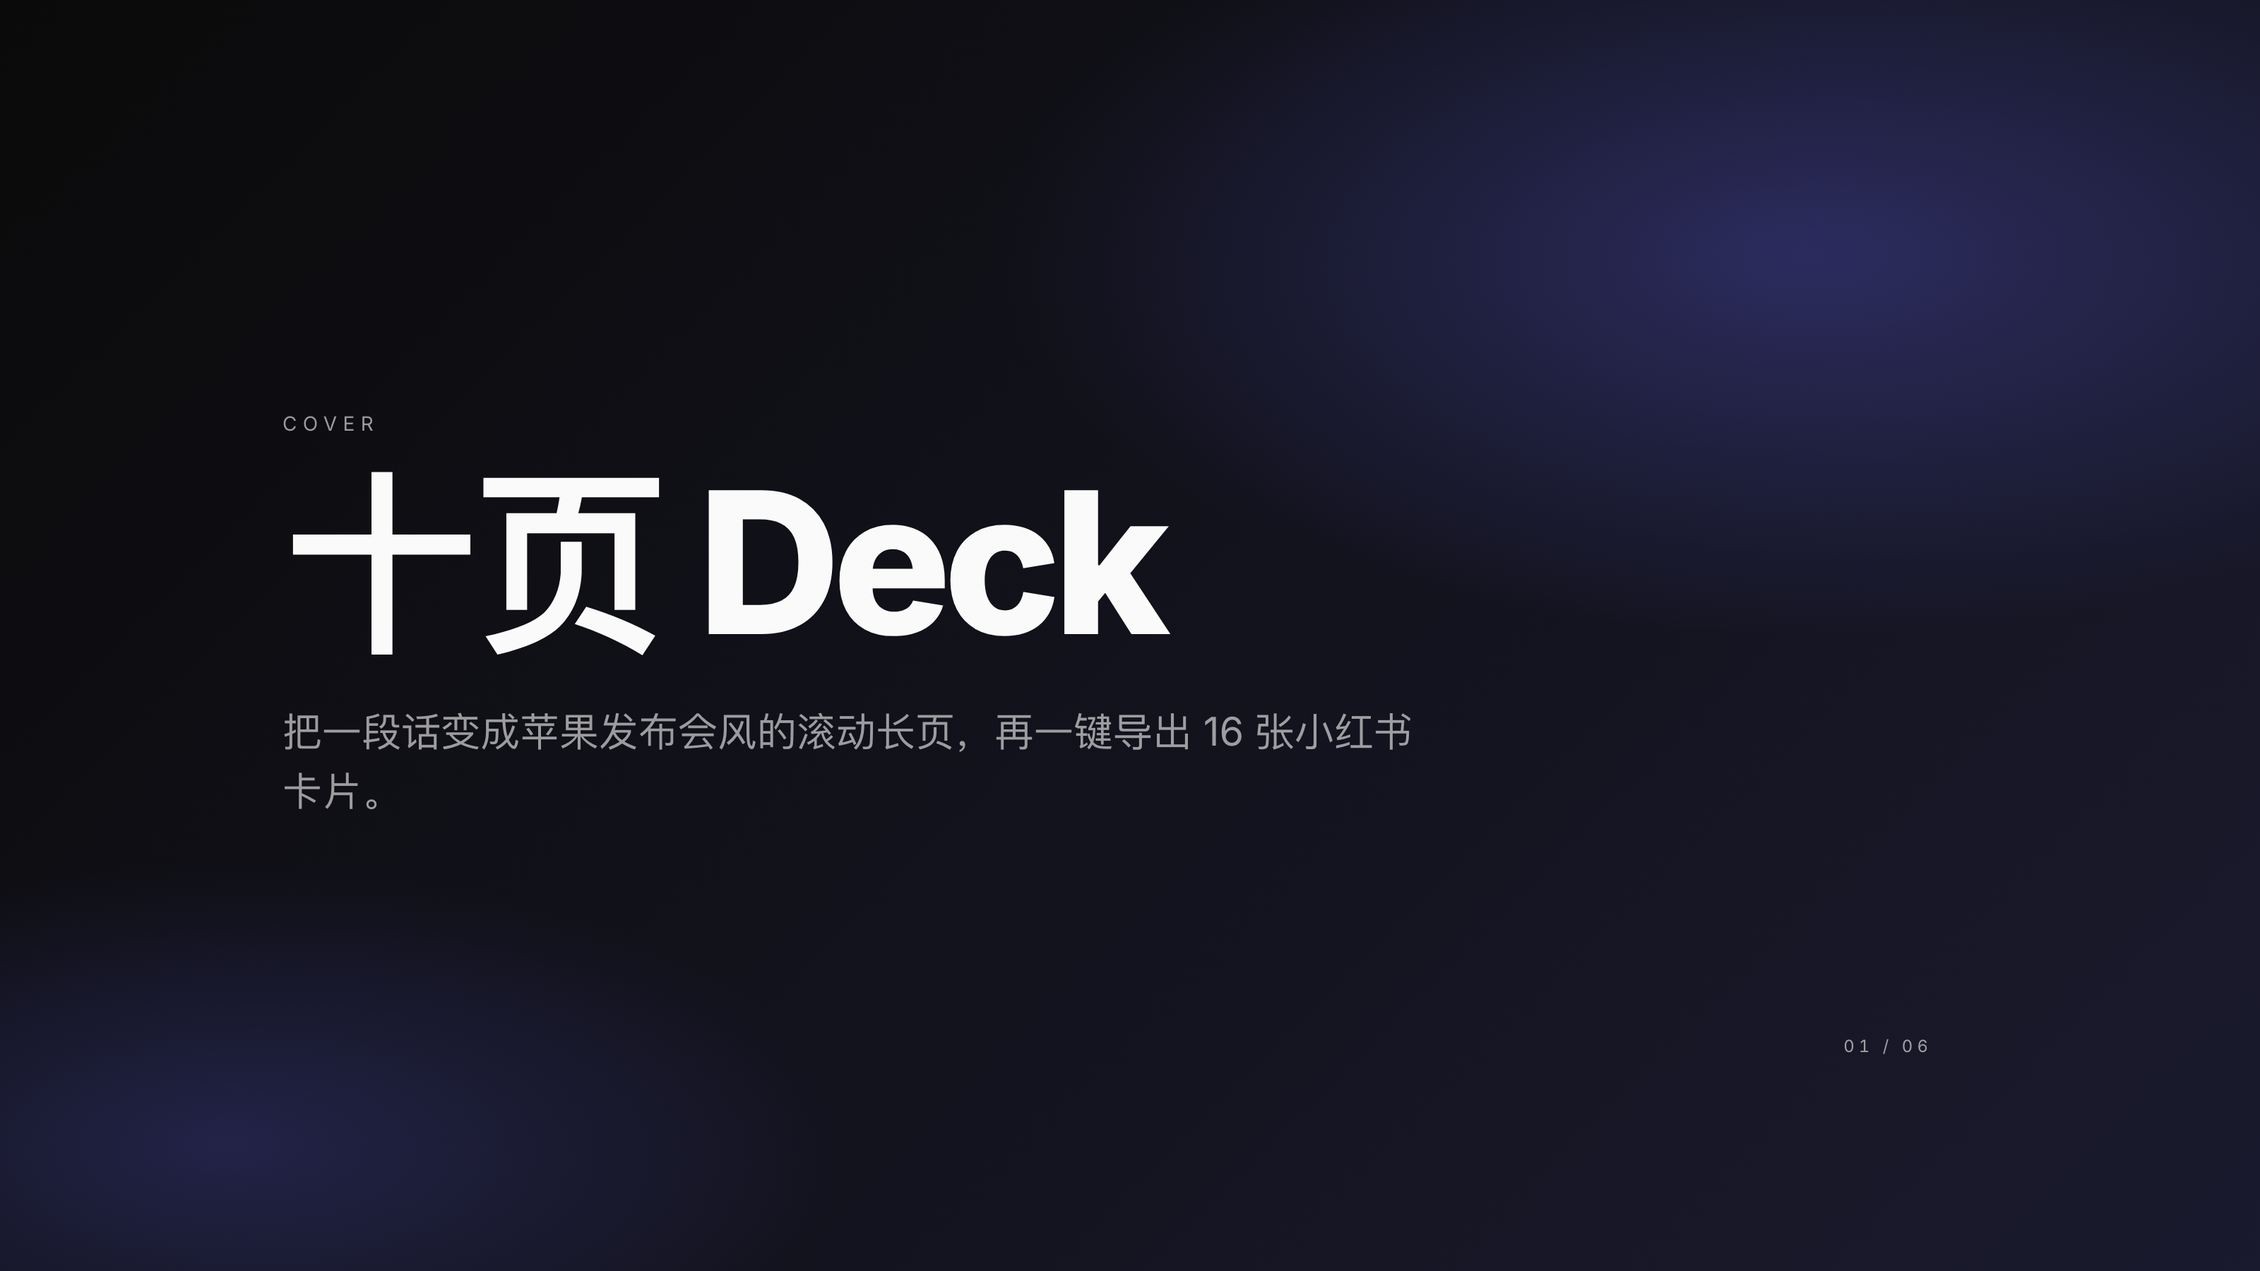
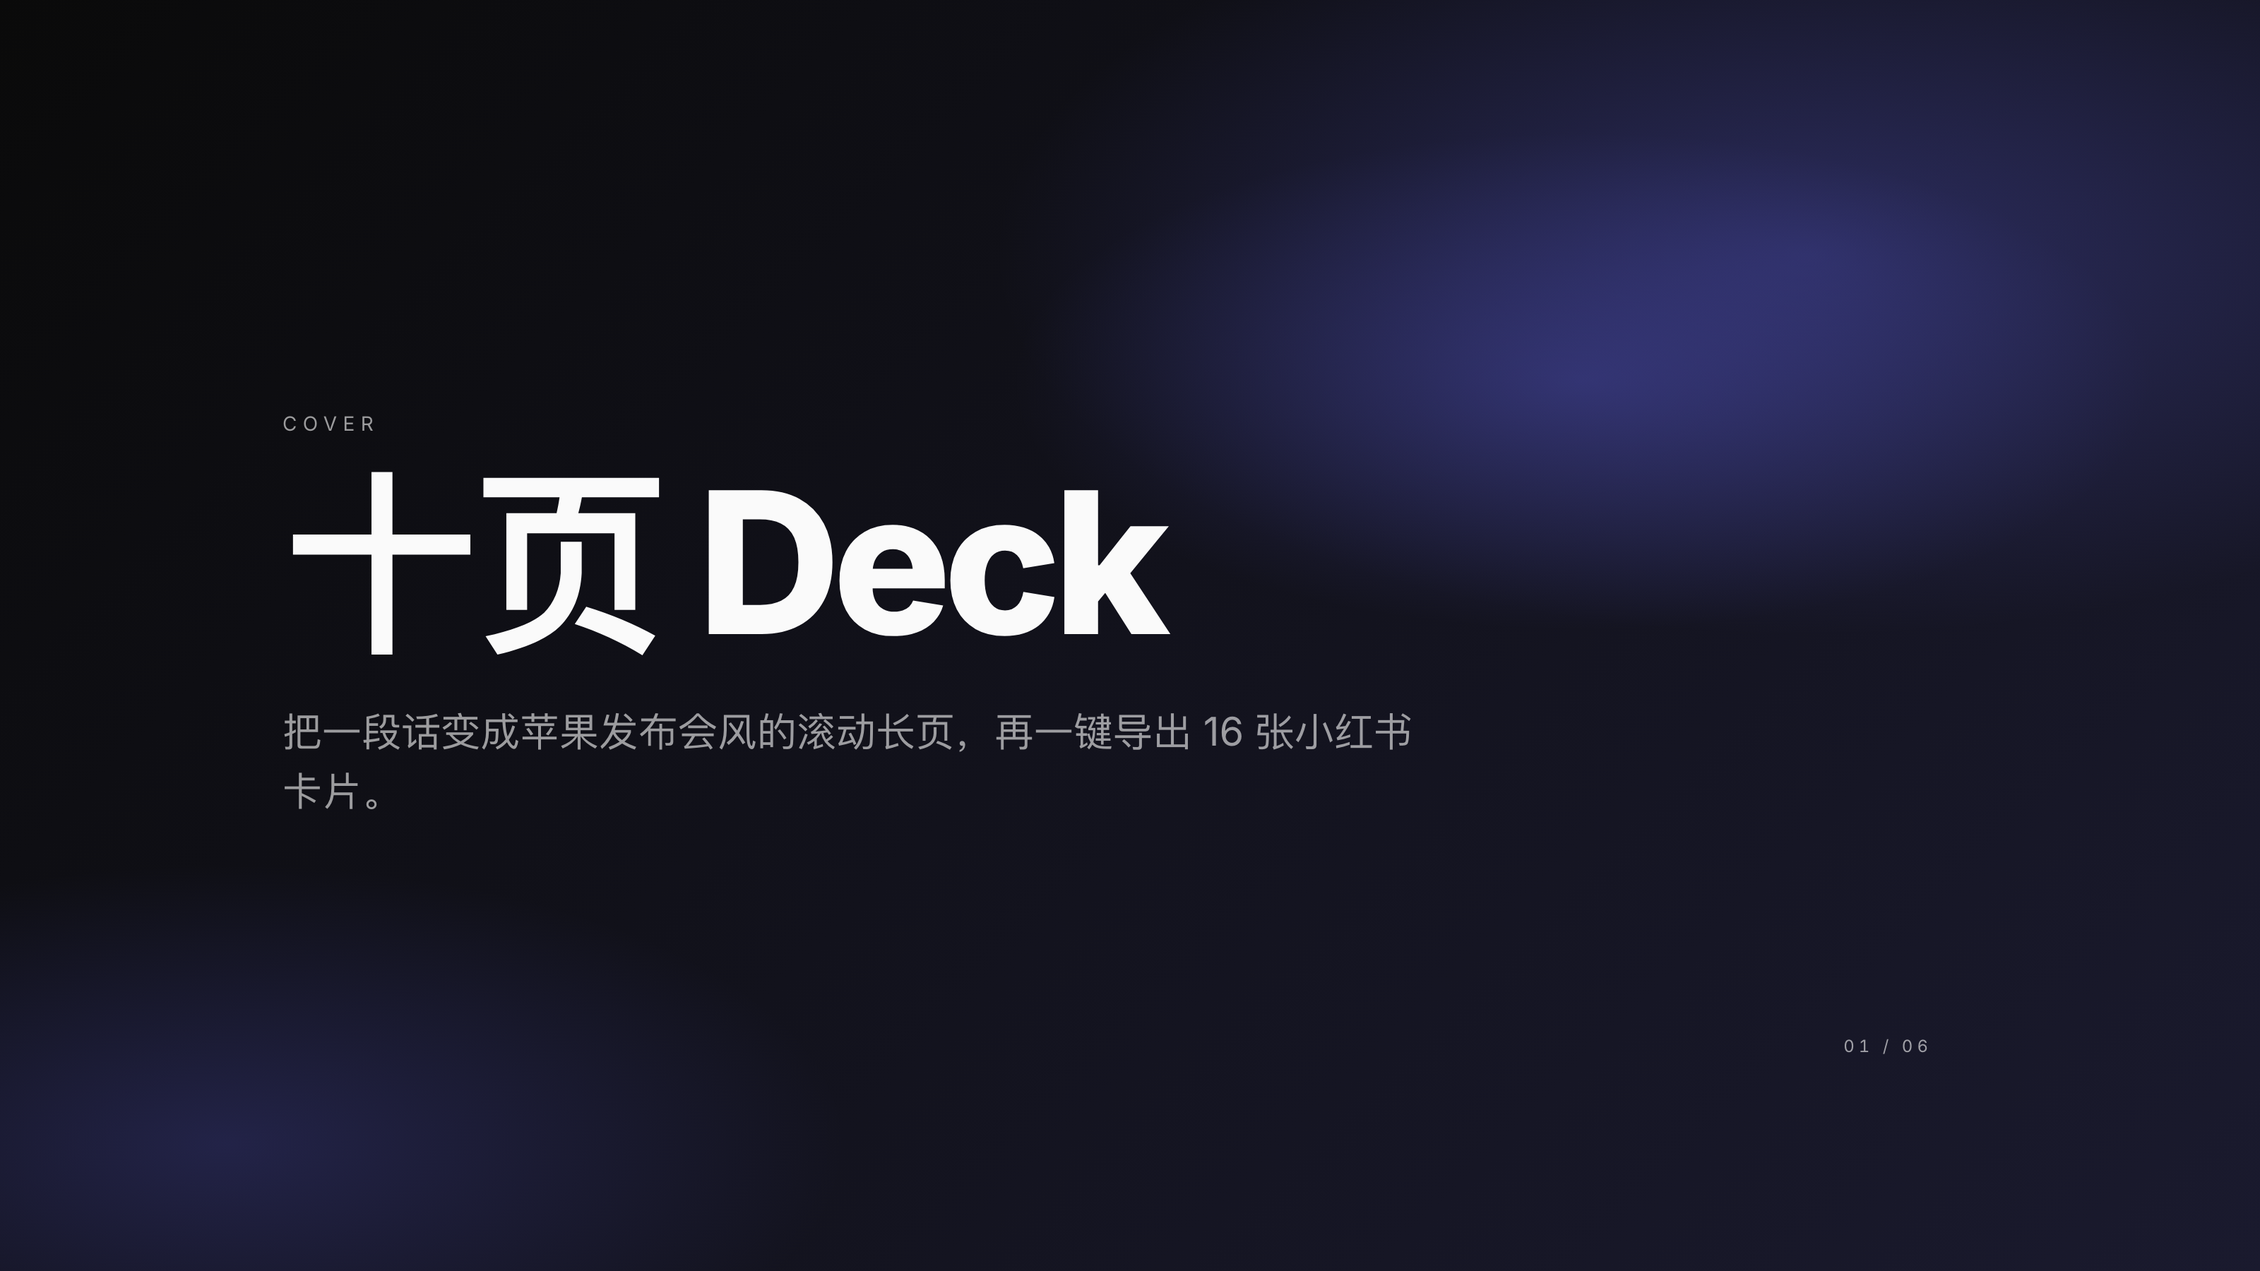
docs: 同步 AGENTS.md + index.json + screenshots（M1-M4 配套更新）
- AGENTS.md：新增 @ratio frontmatter / @image / @icons / 行内 :icon: 章节，
  补全 50 图标清单、Interactive FX Layer 章节、FX 层 CSS 与运行时片段（agent 可直接复制粘贴），
  以及 image / iconRow 蓝图。Quality Checklist 与 Common Mistakes 跟进。
- index.json bump 到 1.1.0：新增 supported_ratios（所有主题任意比例）与
  fx_themes（4 个 opt-in 互动主题）顶层字段。
- 截图脚本：内联 fx.css + FX bootstrap，让 keynote-dark 等 FX 主题的截图
  也能展示鼠标光晕等视觉层。

Changed region(s): [[0.5625, 0.1867, 0.8438, 0.4044]]

diff --git a/AGENTS.md b/AGENTS.md
@@ -31,8 +31,9 @@ Reach for this library when the user wants any of:
 Do **not** use this library when:
 
 - The user needs `.pptx` output — this is HTML-only.
-- The user needs animations, transitions, or embedded video.
 - The user wants a fully WYSIWYG editor experience.
+
+Note: animations are supported via a CSS-only FX layer opt-in by 4 themes (`keynote-dark`, `data-dashboard`, `xhs-pastel`, `swiss-paper`) — cursor-follow glow, entry stagger, hover-lift, etc. See [Interactive FX Layer](#interactive-fx-layer).
 
 ---
 
@@ -54,7 +55,20 @@ Do not deviate. In particular: do not start a dev server, do not modify `src/`, 
 
 ## The DSL: Markdown Syntax Reference
 
-The parser is `src/parser/parseMarkdown.ts`. The rules below match it exactly. Every slide compiles to one of nine `SlideAST` types.
+The parser is `src/parser/parseMarkdown.ts`. The rules below match it exactly. Every slide compiles to one of eleven `SlideAST` types.
+
+### Deck-level frontmatter (optional)
+
+A single `@ratio` line at the very top of the markdown (before any `# Cover`) overrides the theme's default aspect ratio for the whole deck:
+
+```
+@ratio 9:16
+
+# Cover title
+...
+```
+
+Accepted values: `16:9` / `4:5` / `3:4` / `9:16` / `2.35:1`. If absent, the theme's `defaultAspect` (from its `meta.ts`) is used. The directive is stripped before slide parsing so it never renders.
 
 ### Slide separator
 
@@ -228,9 +242,76 @@ Rule: chunk starts with literal `@poster` directive (case-insensitive). Format:
 
 Renders as `posterHero` — eyebrow, optional pill-shaped countdown badge, giant title, subtitle, pill-shaped CTA. Best for 9:16 vertical posters.
 
-### 10. Section (fallback)
+### 10. Image slide (`@image` directive)
 
-Anything that doesn't match the above falls back to `section`: the first heading becomes the section heading, everything else becomes body text.
+```
+@image
+![alt](https://example.com/image.jpg)
+Optional caption text below
+```
+
+Or just a URL on its own line:
+
+```
+@image
+https://example.com/cover.jpg
+Optional caption
+```
+
+Renders as `image` — single image centred on the slide with optional caption. For URL-served images the file is fetched at render time; for data URIs (e.g. images dragged into the editor) the bytes are inlined into the HTML.
+
+### 11. Icon row (`@icons` directive)
+
+```
+@icons
+## 三大优势
+
+- :rocket: 极速生成
+- :shield-check: 隐私保护
+- :sparkles: 视觉惊艳
+```
+
+Body items can be bullet-prefixed (`- :icon: label`) or bare (`:icon: label`). Heading via `## ...` is optional. Renders as 3–6 accent-tinted tiles with an inline Lucide SVG icon and a label underneath.
+
+**Available icons (50, all from Lucide MIT):**
+
+`check`, `x`, `star`, `heart`, `sparkles`, `zap`, `flame`, `award`, `trophy`, `trending-up`, `trending-down`, `bar-chart`, `pie-chart`, `activity`, `target`, `rocket`, `gauge`, `user`, `users`, `phone`, `mail`, `message-circle`, `map-pin`, `globe`, `home`, `briefcase`, `package`, `layers`, `cpu`, `database`, `code`, `smartphone`, `monitor`, `dollar-sign`, `shopping-cart`, `gift`, `tag`, `credit-card`, `arrow-right`, `arrow-up-right`, `lightbulb`, `shield`, `shield-check`, `lock`, `clock`, `calendar`, `search`, `settings`, `bookmark`, `book`, `camera`, `image`, `film`, `leaf`, `moon`, `sun`.
+
+Unknown names are kept verbatim (the slide renders with a bullet placeholder).
+
+### Inline icons (any text)
+
+You can put `:icon-name:` tokens inside cover subtitles, list items, section bodies, quote text, etc. They become inline SVGs at render time (sized to the surrounding text):
+
+```
+- :star: 高品质 — 我们用得心服口服
+- :trending-up: 数据 — 用户留存率提升 40%
+```
+
+Same name pool as `@icons`. Unknown tokens are passed through unchanged.
+
+### Images inside other slides
+
+Drop a Markdown image line `![alt](url)` into a **cover**, **section**, or **`@poster`** chunk and the renderer pulls it out as a layered image:
+
+- **Cover**: full-bleed background image with a dark vignette over the title/subtitle
+- **Section**: two-column layout (image on the left at 4:5 narrow widths, on a side at 16:9)
+- **`@poster`**: image becomes the hero background
+
+Example:
+
+```
+# 朋友圈直发
+副标题 :star: 你也能做出来
+
+![cover](https://images.unsplash.com/photo-...)
+```
+
+**For agents**: prefer hosted URLs (`https://...`). Don't generate data URIs unless the user explicitly hands you one; data URIs balloon the HTML size by ~33% and can't be cached. The editor's drag-paste UX produces data URIs for end users — that's the only place they're expected.
+
+### 12. Section (fallback)
+
+Anything that doesn't match the above falls back to `section`: the first heading becomes the section heading, everything else becomes body text. If the body contains a `![alt](url)` line, the image is rendered side-by-side with the text.
 
 ```
 ## Section heading
@@ -250,6 +331,8 @@ Plain body text. Multiple lines preserved.
 | Lines all leading with 📞💬📍🌐📧 or label:                  | `contact`      |
 | Starts with `@qr`                                           | `qrCode`       |
 | Starts with `@poster`                                       | `posterHero`   |
+| Starts with `@image`                                        | `image`        |
+| Starts with `@icons`                                        | `iconRow`      |
 | Anything else                                               | `section`      |
 
 ---
@@ -282,6 +365,23 @@ When the user is vague, prefer:
 Never mix two themes in one deck. If you genuinely can't choose, ask the user one question.
 
 ---
+
+## Interactive FX Layer
+
+4 themes opt in to a CSS-only "FX layer" (plus a tiny mouse-tracker JS) for richer interactivity. The rest of the 16 themes are untouched.
+
+| Theme | FX |
+|---|---|
+| `keynote-dark` | Cursor-follow indigo halo + big-number pop entry |
+| `data-dashboard` | Cursor-follow cyan halo + big-number pop + list-item progress bars |
+| `xhs-pastel` | Hover-lift on items + slow background gradient drift |
+| `swiss-paper` | Animated red rule that draws in on each slide (no cursor follow — keeps minimalism) |
+
+Implementation: each theme's `theme.css` sets per-FX flags like `--fx-mouse-glow: 1`. A 1.2KB runtime (`exportedDeckScript` in `src/export/exportHtml.ts`) promotes those CSS vars to `data-fx-*` attributes on the deck root; `src/styles/fx.css` selectors light up the matching effect. The same script also writes mouse position to `--mx`/`--my` so cursor halos follow the pointer.
+
+**For agent-generated decks**: include the FX layer CSS (`fx.css`) and the runtime script in your rendered HTML. The runtime is reproduced in the "Putting it all together" section below. If you skip these, the 4 themes still look fine — just without the interactive polish.
+
+All FX respect `prefers-reduced-motion: reduce` and gracefully degrade if JS is disabled.
 
 ## Rendering: From Markdown to Single-File HTML
 
@@ -456,7 +556,93 @@ Paste this **after** the theme.css block, inside a single `<style>` tag. It is p
   .s-posterHero h2 { font-family: var(--display-font); font-size: clamp(56px,16cqi,180px); font-weight: var(--display-weight,800); letter-spacing: var(--display-tracking,-0.02em); line-height: 0.95; margin: 0; }
   .s-posterHero .subtitle { margin-top: 1.5rem; max-width: 820px; color: var(--fg-muted); font-size: clamp(20px,3cqi,36px); line-height: 1.35; }
   .s-posterHero .cta { display: inline-block; margin-top: 2.5rem; padding: 0.75rem 2rem; border-radius: 999px; background: var(--accent); color: var(--bg); font-size: clamp(18px,2.5cqi,28px); font-weight: 700; }
+
+  /* image slide */
+  .s-image { justify-content: center; align-items: center; gap: 1.5rem; }
+  .s-image img { max-height: 78%; max-width: 100%; border-radius: 24px; object-fit: contain; box-shadow: 0 24px 64px -32px rgba(0,0,0,0.45); }
+  .s-image .caption { max-width: 820px; text-align: center; color: var(--fg-muted); font-size: clamp(14px, 2cqi, 22px); letter-spacing: 0.05em; }
+
+  /* iconRow slide */
+  .s-iconRow { justify-content: center; }
+  .s-iconRow h3 { font-family: var(--display-font); font-size: clamp(32px, 6cqi, 60px); font-weight: var(--display-weight,800); letter-spacing: var(--display-tracking,-0.02em); line-height: 1.1; margin: 0 0 3rem; }
+  .s-iconRow ul { list-style: none; padding: 0; margin: 0; display: grid; gap: 2rem; grid-template-columns: repeat(var(--icon-cols, 3), minmax(0, 1fr)); }
+  .s-iconRow li { display: flex; flex-direction: column; align-items: center; gap: 1rem; text-align: center; }
+  .s-iconRow .icon-tile { width: clamp(64px, 10cqi, 120px); height: clamp(64px, 10cqi, 120px); display: flex; align-items: center; justify-content: center; border-radius: 1rem; background: color-mix(in srgb, var(--accent) 10%, transparent); border: 1px solid color-mix(in srgb, var(--accent) 25%, transparent); color: var(--accent); }
+  .s-iconRow .icon-tile svg { width: 55%; height: 55%; }
+  .s-iconRow .label { font-size: clamp(14px, 2.2cqi, 24px); line-height: 1.4; font-weight: 600; }
+
+  /* inline icon (`:icon-name:` in any text) */
+  .icon-inline { display: inline-flex; align-items: center; width: 1em; height: 1em; margin-inline: 0.12em; color: var(--accent); vertical-align: -0.15em; }
+  .icon-inline svg { width: 100%; height: 100%; }
 </style>
+```
+
+### Interactive FX layer (optional, opt-in by 4 themes)
+
+Append this `<style>` block after the harness CSS for FX-enabled themes. Themes opt in via `--fx-*: 1` flags in their `theme.css`; this stylesheet contains the actual visual rules.
+
+```html
+<style>
+[data-deck-root] { --mx: 0.5; --my: 0.5; }
+[data-theme] [data-slide]::after {
+  content:""; position:absolute; inset:0; pointer-events:none; z-index:0;
+  opacity: calc(var(--fx-mouse-glow, 0) * 1);
+  background: radial-gradient(36% 28% at calc(var(--mx)*100%) calc(var(--my)*100%),
+    color-mix(in srgb, var(--accent) 28%, transparent) 0%, transparent 70%);
+  transition: background 80ms linear;
+}
+[data-fx-hover-lift="1"] [data-slide] li { transition: transform 240ms cubic-bezier(0.2,0.7,0.1,1); }
+[data-fx-hover-lift="1"] [data-slide] li:hover { transform: translateY(-3px); }
+[data-fx-bg-breathe="1"] [data-slide] { animation: fx-breathe 16s ease-in-out infinite alternate; background-size: 200% 200%; }
+@keyframes fx-breathe { 0%{background-position:0% 0%} 100%{background-position:100% 50%} }
+[data-fx-accent-rule="1"] [data-slide] .slide-body::before {
+  content:""; position:absolute; top:0; left:0; height:4px; width:0; background:var(--accent);
+  animation: fx-rule-draw 900ms cubic-bezier(0.2,0.7,0.1,1) 200ms forwards;
+}
+@keyframes fx-rule-draw { to { width: 30%; } }
+[data-fx-bignum-pop="1"] [data-slide-anim].slide-visible .num,
+[data-fx-bignum-pop="1"] [data-slide-anim].slide-visible blockquote {
+  animation: fx-bignum-pop 1000ms cubic-bezier(0.2,0.7,0.1,1) both;
+}
+@keyframes fx-bignum-pop { from { opacity:0; transform:translateY(28px) scale(.92); letter-spacing:-.12em } to { opacity:1; transform:none } }
+@media (prefers-reduced-motion: reduce) {
+  [data-theme] [data-slide]::after { background: none !important; }
+  [data-fx-bg-breathe="1"] [data-slide],
+  [data-fx-bignum-pop="1"] [data-slide-anim].slide-visible .num,
+  [data-fx-bignum-pop="1"] [data-slide-anim].slide-visible blockquote { animation: none !important; }
+  [data-fx-accent-rule="1"] [data-slide] .slide-body::before { animation: none !important; width: 30%; }
+}
+</style>
+```
+
+### FX runtime (optional, opt-in by 4 themes)
+
+A tiny inline `<script>` at the very end of `<body>` activates the FX flags and tracks mouse position. Skip this for non-interactive themes — but you can include it always (the script no-ops if no FX flags are set).
+
+```html
+<script>
+(function(){
+  var FX=['mouse-glow','hover-lift','bg-breathe','accent-rule','bignum-pop','progress'];
+  var root=document.querySelector('[data-deck-root]'); if(!root)return;
+  var cs=getComputedStyle(root);
+  FX.forEach(function(n){ if((cs.getPropertyValue('--fx-'+n)||'').trim()==='1') root.setAttribute('data-fx-'+n,'1'); });
+  if(!matchMedia('(prefers-reduced-motion: reduce)').matches){
+    var raf=0,px=0,py=0;
+    root.addEventListener('mousemove',function(e){
+      var r=root.getBoundingClientRect();
+      px=(e.clientX-r.left)/r.width; py=(e.clientY-r.top)/r.height;
+      if(!raf){raf=requestAnimationFrame(function(){
+        root.style.setProperty('--mx',Math.max(0,Math.min(1,px)));
+        root.style.setProperty('--my',Math.max(0,Math.min(1,py))); raf=0;
+      });}
+    },{passive:true});
+  }
+  if('IntersectionObserver' in window){
+    var io=new IntersectionObserver(function(es){es.forEach(function(e){if(e.isIntersecting)e.target.classList.add('slide-visible')})},{root:root,threshold:0.25});
+    root.querySelectorAll('[data-slide-anim]').forEach(function(el){io.observe(el)});
+  } else { root.querySelectorAll('[data-slide-anim]').forEach(function(el){el.classList.add('slide-visible')}); }
+})();
+</script>
 ```
 
 ### Aspect ratio note
@@ -661,6 +847,43 @@ For each channel, set `{ICON}` to one of 📞 💬 📍 🌐 📧 and `{LABEL}` 
 </section>
 ```
 
+#### image
+
+```html
+<section data-slide aspect="16:9">
+  <div class="slide-inner">
+    <div class="slide-body s-image">
+      <img src="{SRC}" alt="{ALT}">
+      <!-- omit if no caption -->
+      <div class="caption">{CAPTION}</div>
+    </div>
+    <div class="slide-footer">07 / 08</div>
+  </div>
+</section>
+```
+
+#### iconRow
+
+For 3 items use `--icon-cols:3`; for 4+ items use `--icon-cols:4`. `{ICON_SVG}` is the raw SVG markup for the chosen Lucide icon (looked up by name from the catalog above).
+
+```html
+<section data-slide aspect="16:9">
+  <div class="slide-inner">
+    <div class="slide-body s-iconRow" style="--icon-cols:3">
+      <h3>{HEADING}</h3>
+      <ul>
+        <li>
+          <span class="icon-tile">{ICON_SVG}</span>
+          <span class="label">{LABEL 1}</span>
+        </li>
+        <!-- repeat for each item -->
+      </ul>
+    </div>
+    <div class="slide-footer">05 / 08</div>
+  </div>
+</section>
+```
+
 ### Putting it all together
 
 The final file you write looks like this skeleton:
@@ -680,11 +903,16 @@ The final file you write looks like this skeleton:
   <style>
     /* PASTE THE FULL "Render harness CSS" FROM ABOVE HERE (without the surrounding <style> tag) */
   </style>
+  <style>
+    /* OPTIONAL: paste the "Interactive FX layer" stylesheet here.
+       Skip for cost-sensitive output; the 4 FX themes still look fine without it. */
+  </style>
 </head>
 <body data-theme="{TEMPLATE_ID}">
   <div data-deck-root data-theme="{TEMPLATE_ID}">
     <!-- one <section data-slide aspect="..."> per slide -->
   </div>
+  <!-- OPTIONAL: paste the "FX runtime" script here. Required for cursor-follow halo + slide-visible entry animations. -->
 </body>
 </html>
 ```
@@ -709,6 +937,10 @@ Before declaring done, verify:
 - [ ] The file is fully self-contained except for the Google Fonts `<link>` (which gracefully degrades to system fonts if offline).
 - [ ] Chinese template names are preserved as-is in commentary to the user (don't translate "政务汇报红" away).
 - [ ] One deck = one theme. Do not mix themes.
+- [ ] If you used `@ratio`, it sits on the very first line (before any `# Cover`).
+- [ ] All `:icon-name:` tokens reference one of the 50 supported names; otherwise the token is left literal.
+- [ ] Image URLs are reachable hosted URLs, not data URIs (unless the user explicitly handed you one).
+- [ ] For FX themes (keynote-dark / data-dashboard / xhs-pastel / swiss-paper), you included the FX layer CSS and runtime script.
 
 ---
 
@@ -721,6 +953,8 @@ Before declaring done, verify:
 - ❌ **Don't forget the `data-theme` attribute** on `<body>` — without it, theme.css variables never apply and the deck renders in the bare default.
 - ❌ **Don't use HTML entities in number slides** — `>` `&` etc. should be literal Markdown source; if you must escape inside the rendered HTML, escape only `<`, `>`, `&`, `"`, `'`.
 - ❌ **Don't include `src/` source files in the output** — the deliverable is one HTML, not a project zip.
+- ❌ **Don't generate gigantic data URIs for images** — they bloat the HTML. Use hosted URLs (`https://...`) whenever possible. Data URIs are for the editor's drag-paste UX, not for agent-authored decks.
+- ❌ **Don't invent new `:icon:` names** — stick to the 50 listed. Unknown names render as literal text.
 
 ---
 
